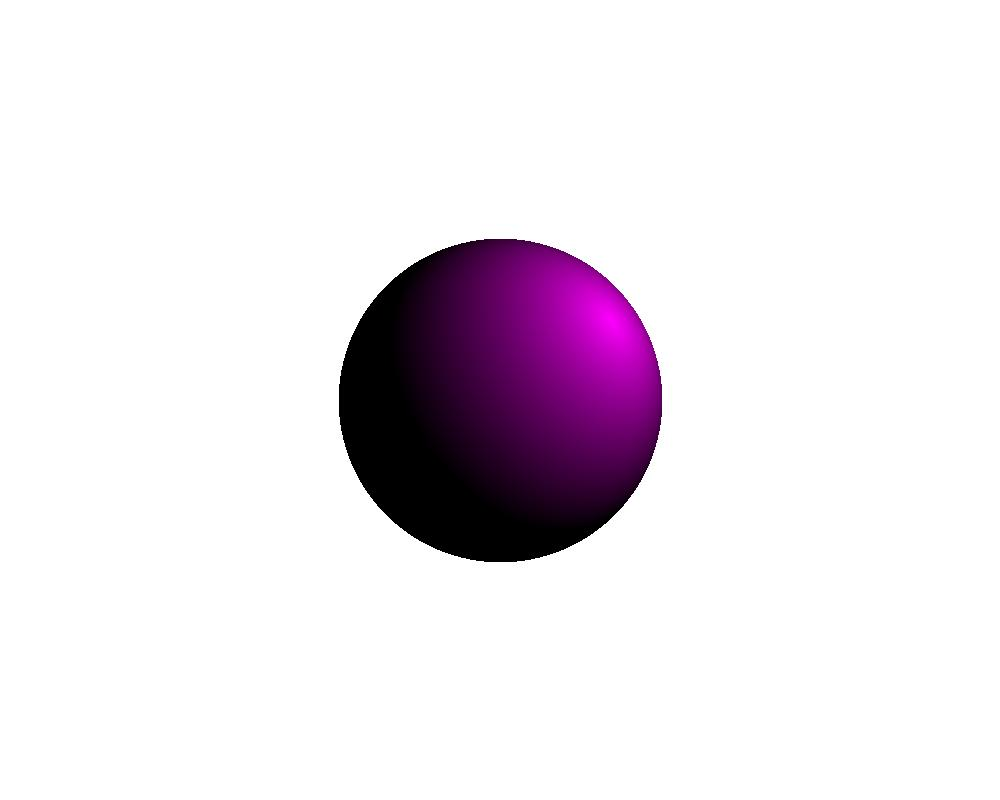
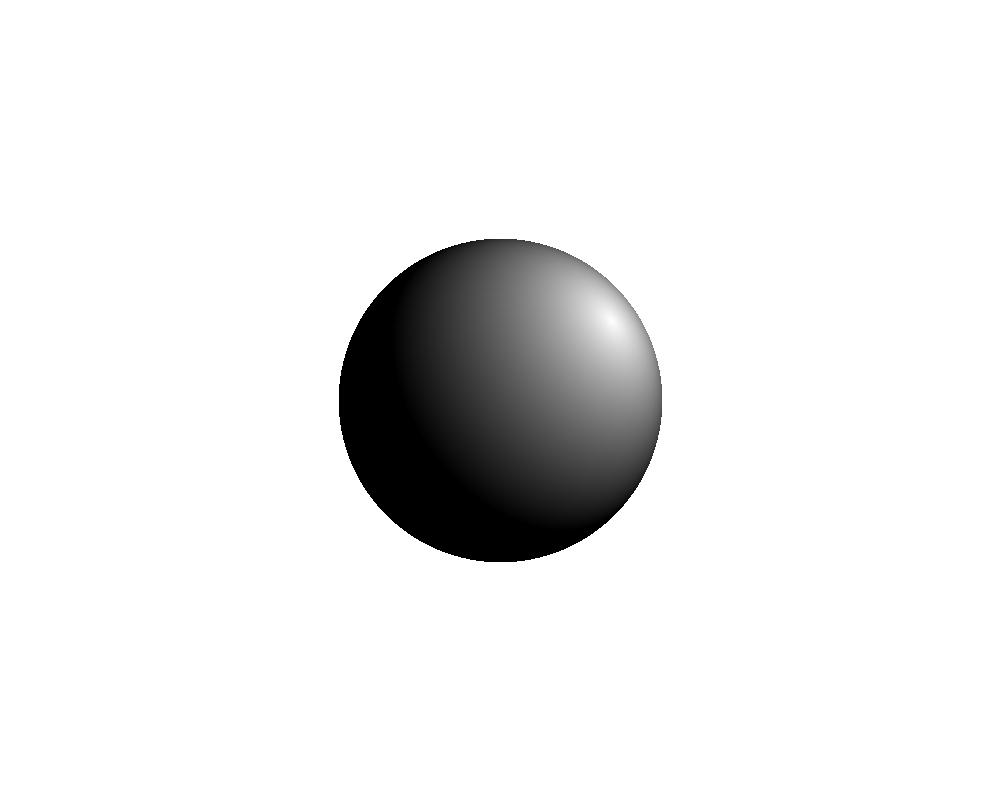
Ray Tracing Numpy Arrays

Changed region(s): [[0.403, 0.2812, 0.682, 0.6562]]

diff --git a/src/world/shapes.py b/src/world/shapes.py
@@ -1,6 +1,8 @@
 import math
-from util.my_math import Line, Vector
+import numpy as np
+from util.my_math import Line
 from world.lights import Light
+from numpy import linalg as la
 
 class Shape:
     def __init__(self, origin, color ):
@@ -12,44 +14,49 @@ class Shape:
 class Sphere(Shape) :
 
     #Vector, double
-    def __init__(self, origin:Vector, r:float, color):
+    def __init__(self, origin:np.array, r:float, color):
         super().__init__(origin, color)
         self.radius:float = r
+        print(self.color)
 
     #Line
     def pointOfIntersection(self, line:Line):
         l = line
-        line = Line(line.origin.add(self.origin.invert()), line.direction)
-        a = line.direction.vec[0]**2 + line.direction.vec[1]**2 + line.direction.vec[2]**2
-        b = 2 * (line.origin.vec[0] * line.direction.vec[0] + line.origin.vec[1] * line.direction.vec[1] + line.origin.vec[2] * line.direction.vec[2])
-        c = line.origin.vec[0]**2 + line.origin.vec[1]**2 + line.origin.vec[2]**2 - self.radius**2
+        line = Line(line.origin + (-1 * self.origin), line.direction)
+        a = line.direction[0]**2 + line.direction[1]**2 + line.direction[2]**2
+        b = 2 * (line.origin[0] * line.direction[0] + line.origin[1] * line.direction[1] + line.origin[2] * line.direction[2])
+        c = line.origin[0]**2 + line.origin[1]**2 + line.origin[2]**2 - self.radius**2
         #print(a, b, c)
         if (b**2 < 4 * a * c):
-            return None
+            return np.array([-np.inf, -np.inf, -np.inf])
         t1:float = (-b + math.sqrt(b**2 - 4 * a * c))/ (2*a)
         t2:float = (-b - math.sqrt(b**2 - 4 * a * c))/ (2*a)
         #print(t1, t2)
         #exit()
-        return (l.insert(t2), l.insert(t1))
+        return np.array([l.insert(t1), l.insert(t2)])
 
-    def getColorFactor(self, vec:Vector, light:Light):
+    def getColorFactor(self, vec:np.array, light:Light):
         #print(light)
         c = 0
-        v = vec.add(self.origin.invert())
-        v1 = light.origin.add(vec.invert())
-        angle = v1.angle(v)
+        v = vec + -1* self.origin
+        v1 = light.origin + -1* vec
+        #print(v, v1)
+        
+        angle = np.degrees(np.arccos(np.dot(v, v1) / (la.norm(v) * la.norm(v1))))
         #print(angle)
         if (angle > 90):
             c = 0
         else:
             c = 255 - angle * 255/90
-        c /= 255
-        return Vector(light.color[0] * c /255,light.color[1] * c /255, light.color[2] * c /255)
+        c  = c/255**2 #* light.intensity/1000
+        #print(c)
+        return self.color * c
 
     def getColor(self, c:float):
-        return (int(self.color[0] * c.vec[0]), int(self.color[1] * c.vec[1]), int(self.color[2] * c.vec[2]))
+        #print(c, self.color)
+        return (int(self.color[0] * c[0]), int(self.color[1] * c[1]), int(self.color[2] * c[2]))
 
     #Vector
-    def isInSphere(self, vec:Vector):
+    def isInSphere(self, vec:np.array):
         a = self.origin.add(vec.invert())
         return True if(a.length() <= self.radius) else False

diff --git a/src/world/model.py b/src/world/model.py
@@ -14,22 +14,24 @@ class Model:
 
     def calculatePoints(self):
         res = []
-        o = Vector(0, 0, 0)
+        o = np.array([0, 0, 0])
         for s in self.shapes:
             for a in range(-int(self.x/2), int(self.x/2), 1):
                 for b in range(-int(self.y/2), int(self.y/2), 1):
-                    v:Vector = Vector(self.distance, a, b) 
+                    v:np.array = np.array([self.distance, a, b], dtype='float64') 
                     l:Line = Line(o, v) 
                     i = s.pointOfIntersection(l)
-                    if(i == None):
+                    #print(i)
+                    if(i.size == 3):
                         continue
-                    i = i[0] if (i[0].length() < i[1].length()) else i[1]
+                    i = i[0] if (la.norm(i[0]) < la.norm(i[1])) else i[1]
                     #print(v)
-                    c = Vector(0, 0, 0)
+                    c = np.array([0, 0, 0])
                     for l in self.lights:
                         c0 = s.getColorFactor(i, l)
-                        c = c.add(c0)
+                        c = c + c0
                     #c = c.multiply(1/len(self.lights))
+                    #print(s.getColor(c))
                     res.append((a, b, s.getColor(c)))
         return res
     

diff --git a/src/main.py b/src/main.py
@@ -3,15 +3,16 @@ from world.lights import Light
 from world.model import Model
 from world.shapes import *
 from util.my_math import *
-"""
+import numpy as np
+from numpy import linalg as la
+
 x = 1000
 y = 800
-s = Sphere(Vector(800, 0, 0), 300, (255, 255, 255))
+s = Sphere(np.array([800, 0, 0]), 300, np.array([255, 255, 255]))
 
 shperes = [s,]
 
-l0 = Light(Vector(300, 350, 250), (255, 0, 255))
-#l1 = Light(Vector(400, -300, -200), (255, 255, 255))
+l0 = Light(np.array([300, 350, 250]), np.array([255, 255, 255]), 1000)
 l = [l0,]
 m = Model(400, shperes, l, x, y)
 r = m.calculatePoints()
@@ -26,10 +27,8 @@ p.showPicture()
 p.save()
 
 """
-v = Vector(1, 23, 4)
-v1 = Vector(2, 4, 1)
-print(v.vec + v1.vec)
-print(v)
-print(v1)
+a = np.array([9, 1, 3])
+n = np.array([np.array([9, 1, 3]), np.array([9, 1, 3])])
+print(n)
 #p.pointOfInersection(l).print()
-
+"""

diff --git a/src/util/my_math.py b/src/util/my_math.py
@@ -42,13 +42,13 @@ class Vector:
         return self.vec[0] + self.vec[1] + self.vec[2]
 """
 class Line:
-    def __init__(self, origin:Vector, direction:Vector):
-        self.origin:Vector = origin
-        self.direction:Vector = direction
+    def __init__(self, origin:np.array, direction:np.array):
+        self.origin:np.array = origin
+        self.direction:np.array = direction
 
     #double
     def insert(self, x:float):
-        return self.origin.add(self.direction.multiply(x))
+        return self.origin + (self.direction * x)
 
     def __str__(self):
         return(f"Line:\n\tx:{self.origin.vec[0]}\t   x:{self.direction.vec[0]}\n\ty:{self.origin.vec[1]}\ts* y:{self.direction.vec[1]}\n\tz:{self.origin.vec[2]}\t   z:{self.direction.vec[2]}\n")

diff --git a/src/world/lights.py b/src/world/lights.py
@@ -2,9 +2,12 @@ from util.my_math import *
 
 class Light:
 
-    def __init__(self, origin:Vector, color):
+
+    #Lightintensity int between 0 - 1000
+    def __init__(self, origin:np.array, color:np.array, intensity:int):
         self.origin = origin
         self.color = color
+        self.intensity = intensity
 
     def __str__(self):
         return (f"Light:\n\tx:{self.origin.vec[0]}\n\ty:{self.origin.vec[1]}\n\tz:{self.origin.vec[2]}\n")

diff --git a/src/view/picture.py b/src/view/picture.py
@@ -12,8 +12,7 @@ class Picture:
 
     def drawPixel(self, x:int, y:int, color = 0):
         #print(x, y, color)
-        c1, c2, c3 = color
-        color = (int(c1), int(c2), int(c3))
+        color = (int(color[0]), int(color[1]), int(color[2]))
         self.draw.point((int(x), int(y)), fill = color)
 
     def showPicture(self):
